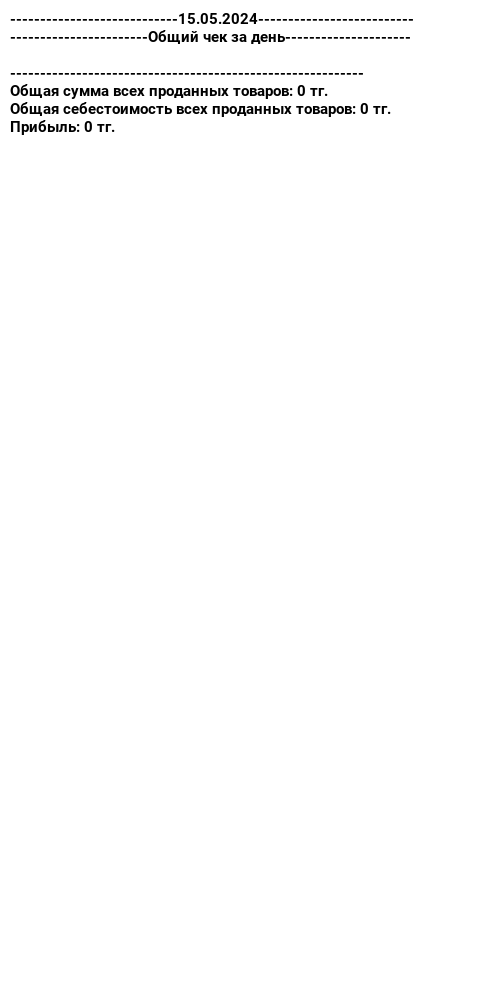
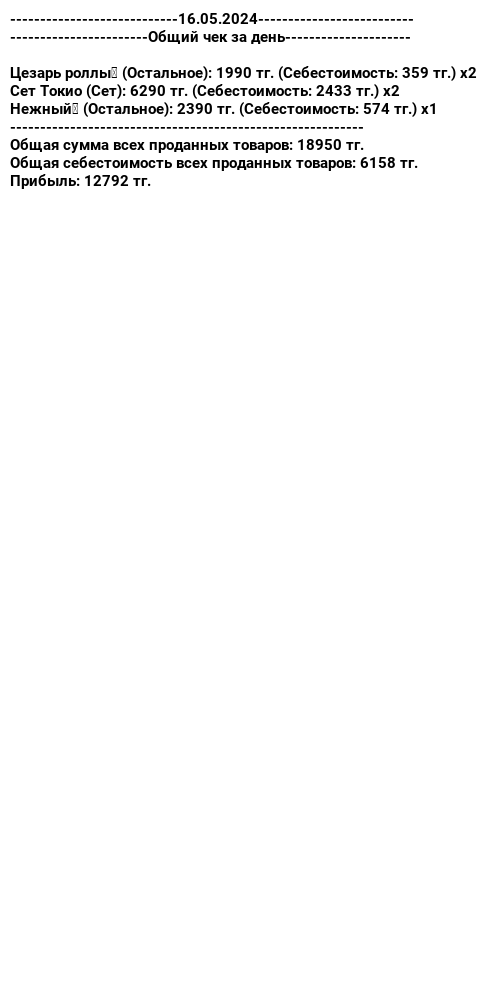
commit: исправил баги с общим счетом за день

Changed region(s): [[0.0, 0.062, 0.96, 0.186]]

diff --git a/sets_data.py b/sets_data.py
@@ -8,7 +8,7 @@ sets = [
         {"type": "product", "name": "Огурцы", "quantity": 85},
         {"type": "product", "name": "Унаги Соус", "quantity": 40},
         {"type": "product", "name": "Кунжут", "quantity": 5},
-        {"type": "product", "name": "Листья Салата", "quantity": 23},
+        {"type": "product", "name": "Листья Салат", "quantity": 23},
         {"type": "product", "name": "Майонез", "quantity": 10},
         {"type": "product", "name": "Тесто", "quantity": 250},
         {"type": "product", "name": "Сыр", "quantity": 100},
@@ -40,7 +40,7 @@ sets = [
         {"type": "product", "name": "Унаги Соус", "quantity": 40},
         {"type": "product", "name": "Кунжут", "quantity": 28},
         {"type": "product", "name": "Курица", "quantity": 23},
-        {"type": "product", "name": "Листья Салата", "quantity": 23},
+        {"type": "product", "name": "Листья Салат", "quantity": 23},
         {"type": "product", "name": "Майонез", "quantity": 10},
         {"type": "product", "name": "Сыр Моцарелла", "quantity": 100},
         {"type": "product", "name": "Тесто", "quantity": 250},
@@ -57,10 +57,11 @@ sets = [
         {"type": "product", "name": "Огурцы", "quantity": 92},
         {"type": "product", "name": "Унаги Соус", "quantity": 40},
         {"type": "product", "name": "Кунжут", "quantity": 28},
-        {"type": "product", "name": "Листья Салата", "quantity": 23},
+        {"type": "product", "name": "Листья Салат", "quantity": 23},
         {"type": "product", "name": "Курица", "quantity": 23},
         {"type": "product", "name": "Майонез", "quantity": 10},
         {"type": "product", "name": "Сыр Моцарелла", "quantity": 100},
+        {"type": "product", "name": "Спайси", "quantity": 35},
         {"type": "product", "name": "Тесто", "quantity": 250},
         {"type": "product", "name": "Сыр", "quantity": 100},
         {"type": "product", "name": "Пицца соус", "quantity": 50},
@@ -113,7 +114,7 @@ sets = [
         {"type": "product", "name": "Тесто", "quantity": 500},
         {"type": "product", "name": "Сыр", "quantity": 200},
         {"type": "product", "name": "Пицца соус", "quantity": 100},
-        {"type": "product", "name": "Томат", "quantity": 100},
+        {"type": "product", "name": "Томато", "quantity": 100},
         {"type": "product", "name": "Колбаса", "quantity": 100}
     ]},
     {"name": "Сет Астана", "price": 7990, "cost_price": 3666, "ingredients": [
@@ -142,7 +143,7 @@ sets = [
         {"type": "product", "name": "Огурцы", "quantity": 130},
         {"type": "product", "name": "Унаги Соус", "quantity": 40},
         {"type": "product", "name": "Кунжут", "quantity": 48},
-        {"type": "product", "name": "Листья Салата", "quantity": 23},
+        {"type": "product", "name": "Листья Салат", "quantity": 23},
         {"type": "product", "name": "Курица", "quantity": 23},
         {"type": "product", "name": "Майонез", "quantity": 10},
         {"type": "product", "name": "Сыр Моцарелла", "quantity": 100},
@@ -151,7 +152,7 @@ sets = [
         {"type": "product", "name": "Сыр", "quantity": 200},
         {"type": "product", "name": "Пицца соус", "quantity": 100},
         {"type": "product", "name": "Грибы", "quantity": 38},
-        {"type": "product", "name": "Томат", "quantity": 38},
+        {"type": "product", "name": "Томато", "quantity": 38},
         {"type": "product", "name": "Колбаса", "quantity": 138},
         {"type": "product", "name": "Курица", "quantity": 38}
     ]},
@@ -162,7 +163,7 @@ sets = [
         {"type": "product", "name": "Огурцы", "quantity": 88},
         {"type": "product", "name": "Ласось", "quantity": 66},
         {"type": "product", "name": "Твор Сыр", "quantity": 85},
-        {"type": "product", "name": "Унаги", "quantity": 40},
+        {"type": "product", "name": "Унаги Соус", "quantity": 40},
         {"type": "product", "name": "Кунжут", "quantity": 5},
         {"type": "product", "name": "Курица", "quantity": 23},
         {"type": "product", "name": "Майонез", "quantity": 10},
@@ -171,7 +172,7 @@ sets = [
         {"type": "product", "name": "Тесто", "quantity": 250},
         {"type": "product", "name": "Сыр", "quantity": 100},
         {"type": "product", "name": "Пицца соус", "quantity": 50},
-        {"type": "product", "name": "Томат", "quantity": 100}
+        {"type": "product", "name": "Томато", "quantity": 100}
     ]},
     {"name": "Сет Счастья", "price": 5290, "cost_price": 2717, "ingredients": [
         {"type": "drink", "name": "Cola", "quantity": 1},
@@ -184,7 +185,7 @@ rest = [
     {"name": "Цезарь роллы🍣", "price": 1990, "cost_price": 359, "ingredients": [
         {"type": "product", "name": "Рис", "quantity": 120},
         {"type": "product", "name": "Нори", "quantity": 1},
-        {"type": "product", "name": "Листья Салата", "quantity": 23},
+        {"type": "product", "name": "Листья Салат", "quantity": 23},
         {"type": "product", "name": "Курица", "quantity": 23},
         {"type": "product", "name": "Огурцы", "quantity": 15},
         {"type": "product", "name": "Майонез", "quantity": 10}
@@ -311,7 +312,7 @@ rest = [
         {"type": "product", "name": "Тесто", "quantity": 250},
         {"type": "product", "name": "Сыр", "quantity": 100},
         {"type": "product", "name": "Пицца соус", "quantity": 50},
-        {"type": "product", "name": "Томат", "quantity": 100}
+        {"type": "product", "name": "Томато", "quantity": 100}
     ]},
     {"name": "Пепперони🍕", "price": 2290, "cost_price": 556, "ingredients": [
         {"type": "product", "name": "Тесто", "quantity": 250},
@@ -331,7 +332,7 @@ rest = [
         {"type": "product", "name": "Сыр", "quantity": 100},
         {"type": "product", "name": "Пицца соус", "quantity": 50},
         {"type": "product", "name": "Грибы", "quantity": 38},
-        {"type": "product", "name": "Томат", "quantity": 38},
+        {"type": "product", "name": "Томато", "quantity": 38},
         {"type": "product", "name": "Колбаса", "quantity": 38},
         {"type": "product", "name": "Курица", "quantity": 38}
     ]},

diff --git a/main.py b/main.py
@@ -305,6 +305,9 @@ def handle_total_sales(message):
     drinks_cursor = drinks_conn.cursor()
     products_cursor = products_conn.cursor()
 
+    sold_sets = {}
+    sold_rests = {}
+
     # Получение информации о проданных товарах из базы данных
     sales_cursor.execute("SELECT item_name, type, quantity FROM sales")
     sales = sales_cursor.fetchall()
@@ -314,15 +317,27 @@ def handle_total_sales(message):
         if sale_type == "set":
             set_info = next((s for s in sets if s["name"] == item_name), None)
             if set_info:
-                total_price += set_info["price"]
-                total_cost += set_info["cost_price"]
-                sales_text += f"{item_name} (Сет): {set_info['price']} тг. (Себестоимость: {set_info['cost_price']} тг.)\n"
+                # total_price += set_info["price"]
+                # total_cost += set_info["cost_price"]
+                total_price += set_info["price"] * quantity
+                total_cost += set_info["cost_price"] * quantity
+                if item_name in sold_sets:
+                    sold_sets[item_name] += quantity
+                else:
+                    sold_sets[item_name] = quantity
+                sales_text += f"{item_name} (Сет): {set_info['price']} тг. (Себестоимость: {set_info['cost_price']} тг.) x{quantity}\n"
         elif sale_type == "rest":
             rest_info = next((r for r in rest if r["name"] == item_name), None)
             if rest_info:
-                total_price += rest_info["price"]
-                total_cost += rest_info["cost_price"]
-                sales_text += f"{item_name} (Сет): {rest_info['price']} тг. (Себестоимость: {rest_info['cost_price']} тг.)\n"
+                # total_price += rest_info["price"]
+                # total_cost += rest_info["cost_price"]
+                total_price += rest_info["price"] * quantity
+                total_cost += rest_info["cost_price"] * quantity
+                if item_name in sold_rests:
+                    sold_rests[item_name] += quantity
+                else:
+                    sold_rests[item_name] = quantity
+                sales_text += f"{item_name} (Остальное): {rest_info['price']} тг. (Себестоимость: {rest_info['cost_price']} тг.) x{quantity}\n"
         elif sale_type == "drink":
             drinks_cursor.execute("SELECT cost FROM drinks WHERE drink=?", (item_name,))
             drink_info = drinks_cursor.fetchone()
@@ -926,7 +941,8 @@ def handle_products(message):
     item23 = types.KeyboardButton("Колбаса")
     item24 = types.KeyboardButton("Курица")
     item25 = types.KeyboardButton("Грибы")
-    markup.add(item1, item2, item3, item4, item5, item6, item7, item8, item9, item10, item11, item12,item13, item14, item15, item16, item17, item18,item19,item20,item21,item22,item23, item24, item25)
+    item26 = types.KeyboardButton("Краб")
+    markup.add(item1, item2, item3, item4, item5, item6, item7, item8, item9, item10, item11, item12,item13, item14, item15, item16, item17, item18,item19,item20,item21,item22,item23, item24, item25,item26)
     bot.send_message(message.chat.id, "Выберите продукт:", reply_markup=markup)
 
 
@@ -940,7 +956,7 @@ def handle_selected_drink(message):
     bot.send_message(message.chat.id, f"Напишите количество {drink_name} в цифрах:")
 
 # Обработчик выбора продукта
-@bot.message_handler(func=lambda message: message.text in ["Рис", "Нори", "Ласось", "Твор Сыр", "Угорь", "Огурцы", "Листья Салат", "Майонез", "Курица", "Снеж Краб", "Плавленный Сыр", "Кунжут", "Спайси", "Сыр Моцарелла", "Унаги Соус", "Масаго", "Крылышки", "Фри", "Тесто", "Сыр", "Пицца соус", "Томато", "Колбаса","Курица", "Грибы"])
+@bot.message_handler(func=lambda message: message.text in ["Рис", "Нори", "Ласось", "Твор Сыр", "Угорь", "Огурцы", "Листья Салат", "Майонез", "Курица", "Снеж Краб", "Плавленный Сыр", "Кунжут", "Спайси", "Сыр Моцарелла", "Унаги Соус", "Масаго", "Крылышки", "Фри", "Тесто", "Сыр", "Пицца соус", "Томато", "Колбаса","Курица", "Грибы","Краб"])
 def handle_selected_product(message):
     user_id = message.chat.id
     product_name = message.text
